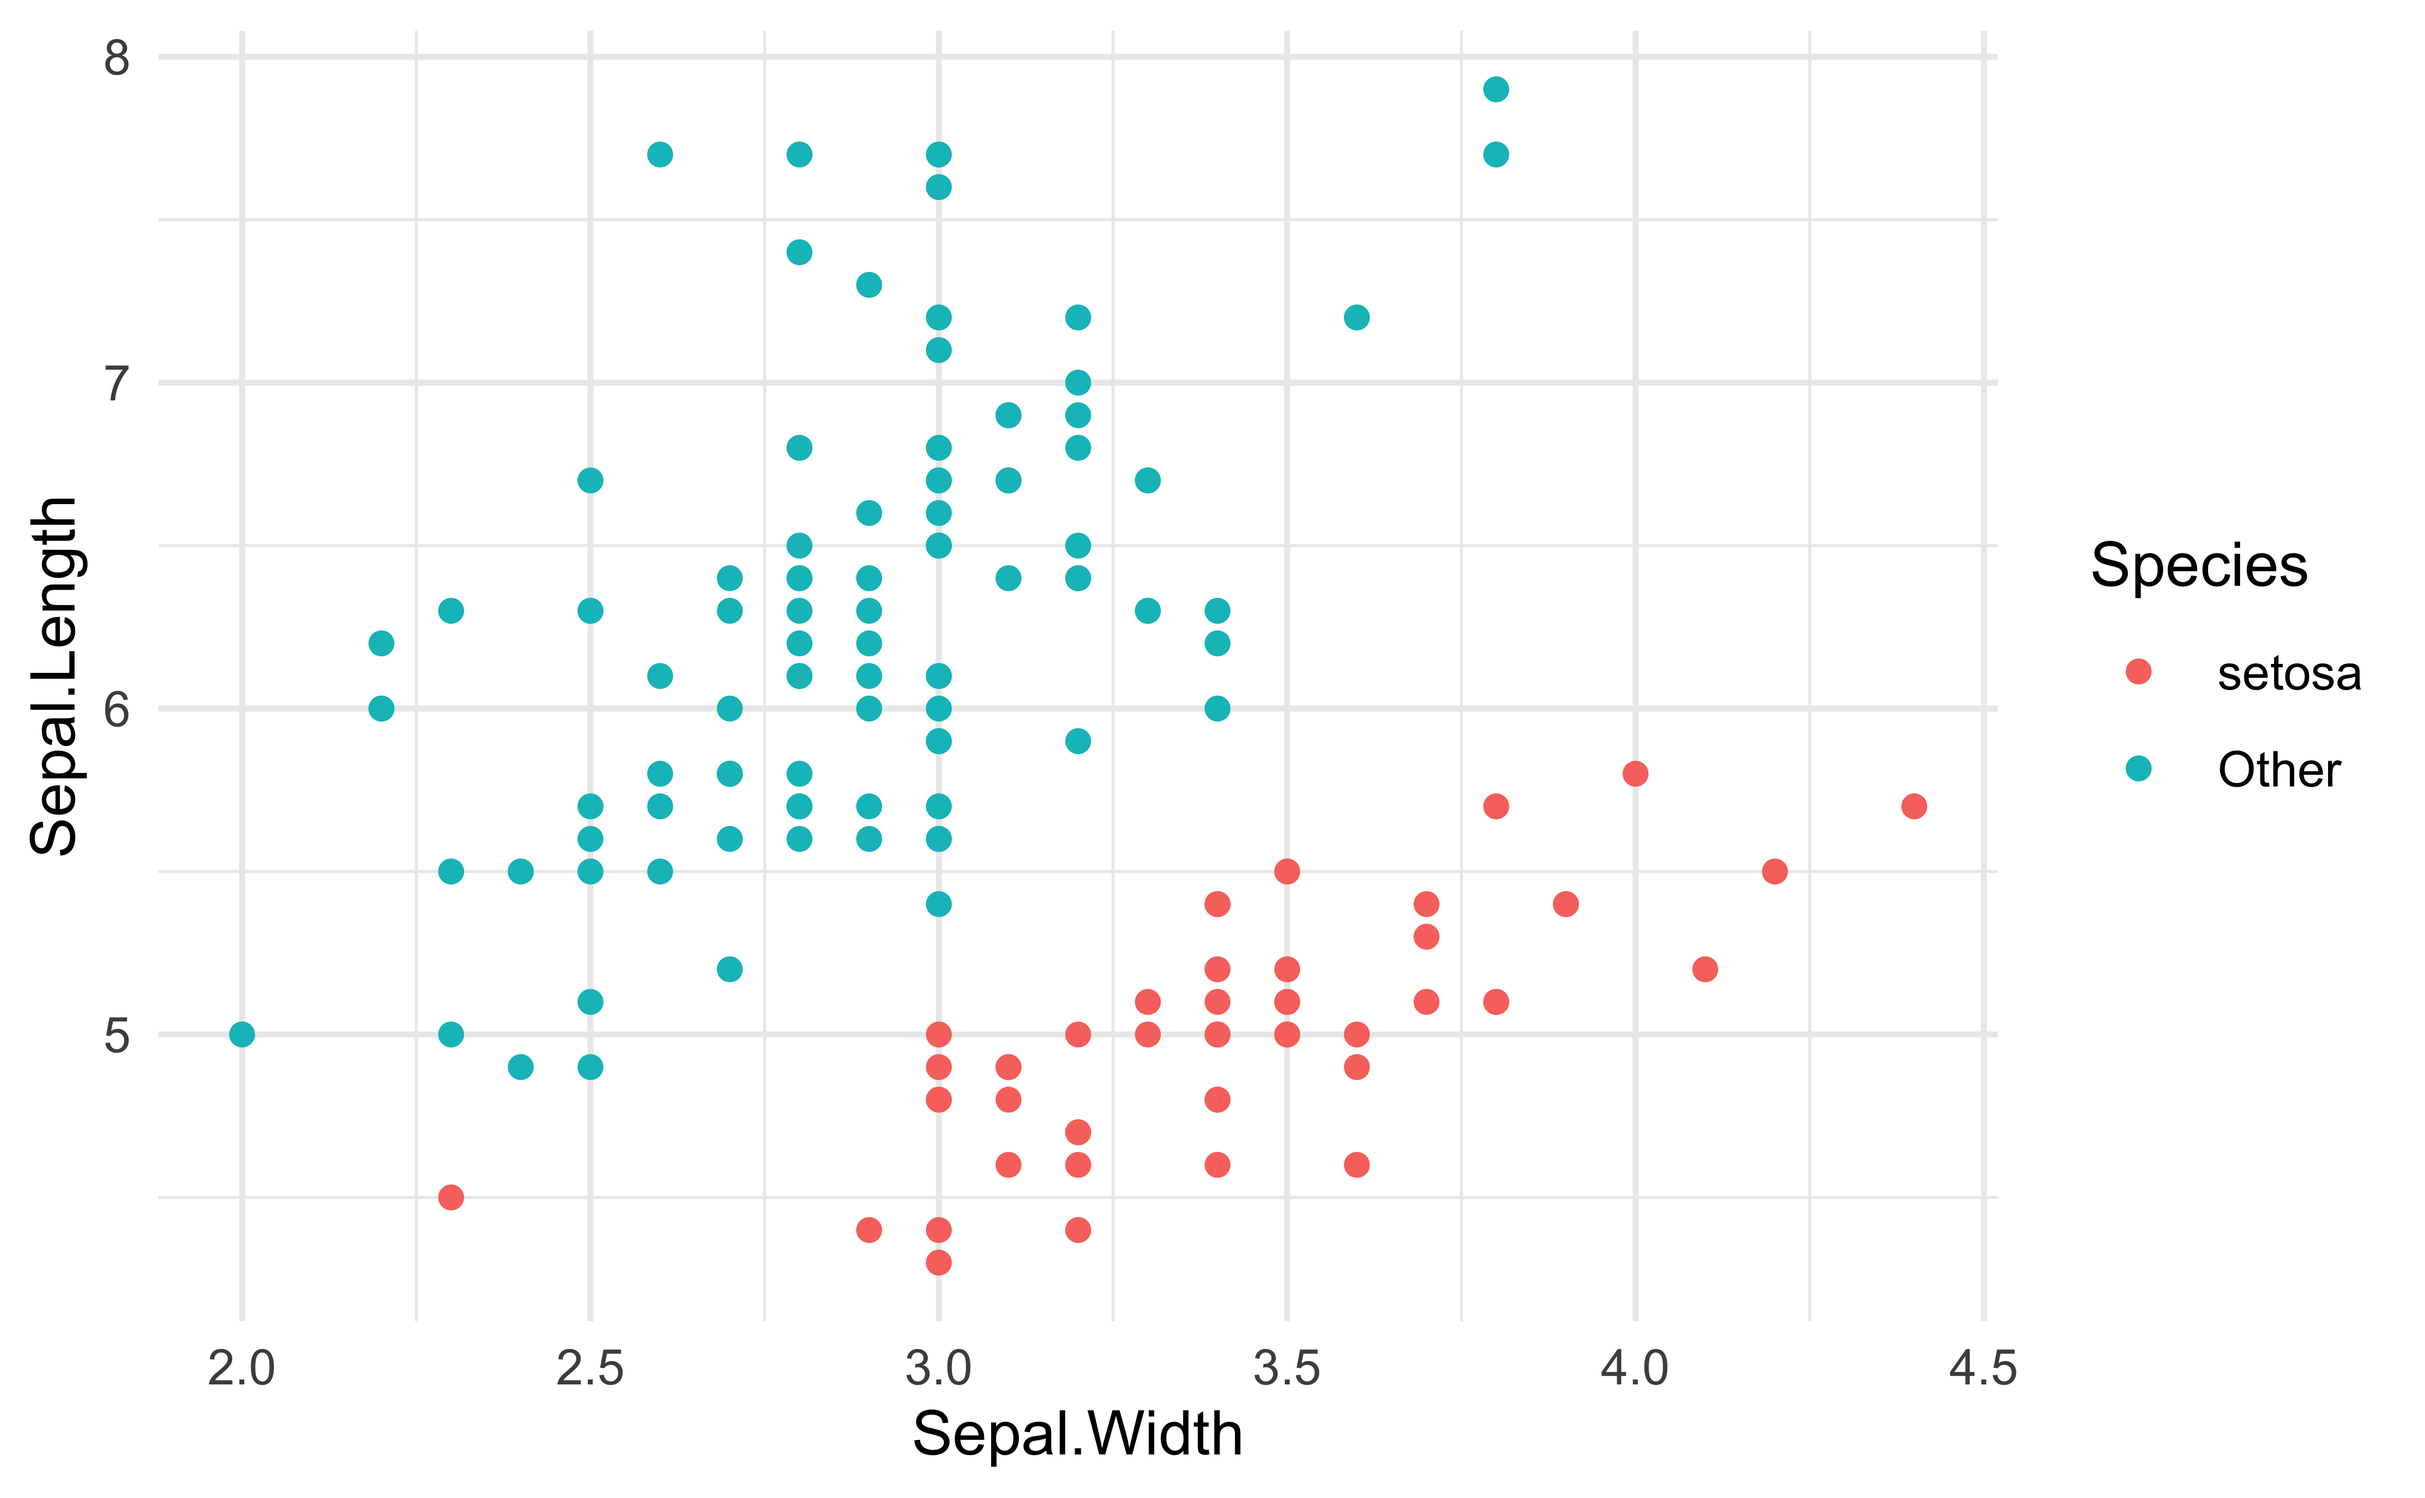
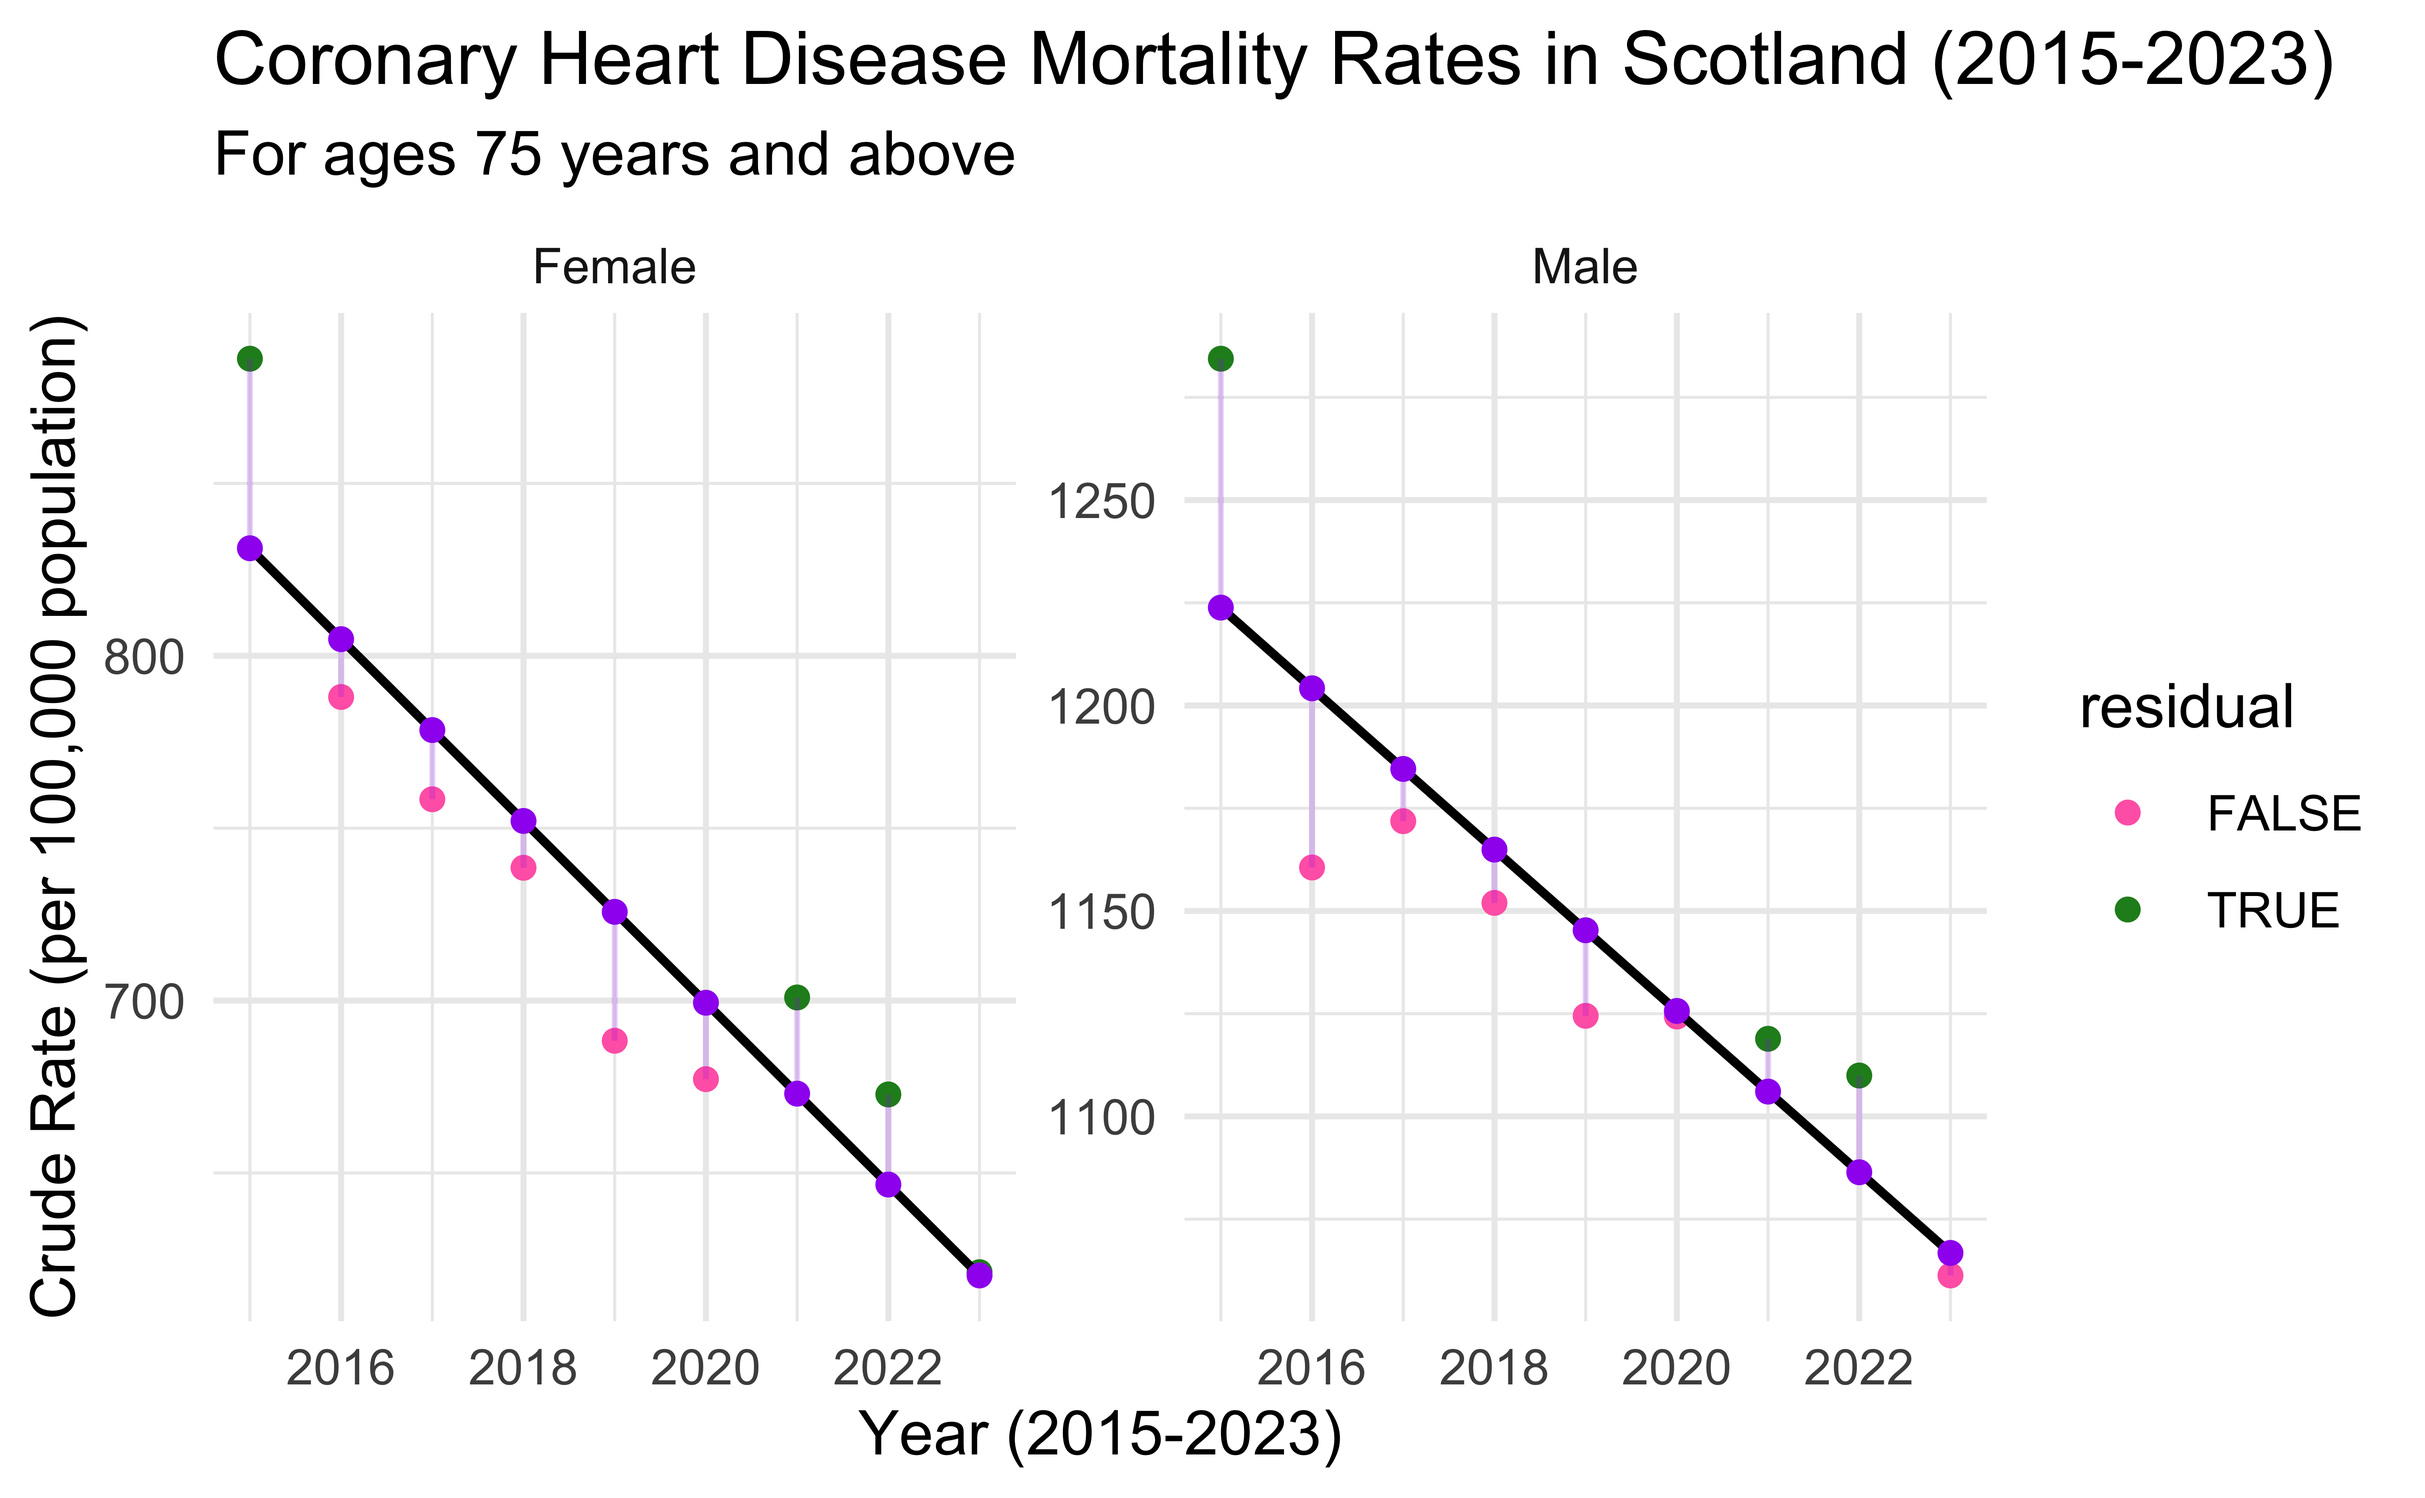
codes inserted for ps1, edited bg and formats

diff --git a/presentation.html b/presentation.html
@@ -6,8 +6,6 @@
     <meta name="author" content="Asini, Tyra, Tanvee, Sofea" />
     <meta name="date" content="2026-11-24" />
     <script src="libs/header-attrs-2.32/header-attrs.js"></script>
-    <script src="libs/kePrint-0.0.1/kePrint.js"></script>
-    <link href="libs/lightable-0.0.1/lightable.css" rel="stylesheet" />
     <link rel="stylesheet" href="xaringan-themer.css" type="text/css" />
   </head>
   <body>
@@ -45,31 +43,23 @@ class: center, middle
 ## Data Analysis and Investigations on Mortality Rates in Scotland due to Coronary Heart Disease
 
 ---
-
 class: inverse, center, middle
 
 # Problem Statement 1: 
 What is the trend in mortality rates of each gender due to coronary heart disease for those over 75 years old from 2015-2023?
-
----
-class: center, middle
-
-# Problem Statement 1: 
-What is the trend in mortality rates of each gender due to coronary heart disease for those over 75 years old from 2015-2023?
-
 ---
 #Tidying Data
 --
 
 ``` r
 #Selecting necessary columns from the dataset
-hd_mortalitybyca &lt;- hd_mortalitybyca [, c("Year", "AgeGroup", "Sex", "Diagnosis", "NumberOfDeaths", "CrudeRate", "Ca")]
+hd_mortality &lt;- hd_mortalitybyca [, c("Year", "AgeGroup", "Sex", "Diagnosis", "NumberOfDeaths", "CrudeRate", "Ca")]
 ```
 --
 
 ``` r
 #Filtering and tidying the specific data
-hd_mortality_year &lt;- hd_mortalitybyca %&gt;% 
+hd_mortality_year &lt;- hd_mortality %&gt;% 
   filter(
   Year != "2024p", 
   Ca == "S92000003",
@@ -126,13 +116,12 @@ hd_mortality_year
 ## 17 S92000003
 ## 18 S92000003
 ```
---
-
 ---
 
 # Code
 
 ``` r
+#Creating a linear regression
 mortality_female_fit &lt;- linear_reg() %&gt;%
   set_engine("lm") %&gt;%
   fit(CrudeRate ~ Year, 
@@ -194,14 +183,48 @@ mortality_year_fit_aug &lt;- bind_rows(
 ```
 
 ---
-
+class: smaller-title
 # Plots
-
-
-
 &lt;img src="presentation_files/figure-html/plot-iris-1.png" alt="" width="80%" /&gt;
 
 ---
+class: smaller-title
+
+#Creating a residual plot 
+&lt;img src="presentation_files/figure-html/unnamed-chunk-8-1.png" alt="" width="80%" /&gt;
+---
+#Observations
+- 
+
+
+---
+class: inverse, center, middle
+
+# Problem Statement 2: 
+Identifying which Scottish council areas have the highest and lowest heart disease mortality,  if the gap has widened or narrowed, and why? 
+---
+#Tidying Data
+--
+
+``` r
+#Filtering data for 2015
+hd_total2015 &lt;- hd_mortalitybyca %&gt;% 
+  filter(Year == 2015, 
+         AgeGroup == "All Ages", 
+         Sex == "All",
+         Diagnosis == "Coronary Heart Disease") 
+```
+--
+
+``` r
+#
+```
+
+---
+
+---
+
+# Code
 
 ## Plot and text
 
@@ -210,7 +233,7 @@ mortality_year_fit_aug &lt;- bind_rows(
 - goes here
 ]
 .pull-right[
-&lt;img src="presentation_files/figure-html/unnamed-chunk-9-1.png" alt="" width="100%" /&gt;
+&lt;img src="presentation_files/figure-html/unnamed-chunk-13-1.png" alt="" width="100%" /&gt;
 ]
 
 ---
@@ -293,40 +316,6 @@ class: inverse, center, middle
 background-image: url(img/edinburgh-castle.jpg)
 background-size: contain
 ---
-
-# Math Expressions
-
-You can write LaTeX math expressions inside a pair of dollar signs, e.g. &amp;#36;\alpha+\beta$ renders `\(\alpha+\beta\)`. You can use the display style with double dollar signs:
-
-```
-$$\bar{X}=\frac{1}{n}\sum_{i=1}^nX_i$$
-```
-
-`$$\bar{X}=\frac{1}{n}\sum_{i=1}^nX_i$$`
-
-Limitations:
-
-1. The source code of a LaTeX math expression must be in one line, unless it is inside a pair of double dollar signs, in which case the starting `$$` must appear in the very beginning of a line, followed immediately by a non-space character, and the ending `$$` must be at the end of a line, led by a non-space character;
-
-1. There should not be spaces after the opening `$` or before the closing `$`.
-
-1. Math does not work on the title slide (see [#61](https://github.com/yihui/xaringan/issues/61) for a workaround).
-
----
-
-# Feeling adventurous?
-
-- Want to find out more about `xaringan`? See https://slides.yihui.name/xaringan/#1.
-
-- You are welcome to use the default styling of the slides. In fact, that's what I expect majority of you will do. You will differentiate yourself with the content of your presentation.
-
-- But some of you might want to play around with slide styling. The 
-`xaringanthemer` provides some solutions for this that: https://pkg.garrickadenbuie.com/xaringanthemer.
-
-- And if you want more bells and whistles, there is also `xaringanExtra`: https://pkg.garrickadenbuie.com/xaringanExtra.
-
----
-
     </textarea>
 <style data-target="print-only">@media screen {.remark-slide-container{display:block;}.remark-slide-scaler{box-shadow:none;}}</style>
 <script src="https://remarkjs.com/downloads/remark-latest.min.js"></script>

diff --git a/xaringan-themer.css b/xaringan-themer.css
@@ -135,7 +135,6 @@ a, a > code {
 }
 .title-slide {
   background-color: var(--title-slide-background-color);
-  background-image: url("img/confetti.jpg");
   background-size: cover;
 }
 .title-slide .remark-slide-number {
@@ -269,5 +268,7 @@ table.dataTable.hover tbody tr:hover, table.dataTable.display tbody tr:hover {
     left: 0 !important;
   }
 }
-
+.smaller-title h1 {
+  font-size: 34px;
+}
 
